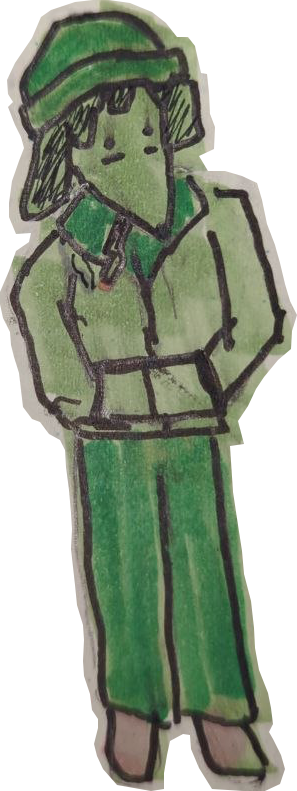
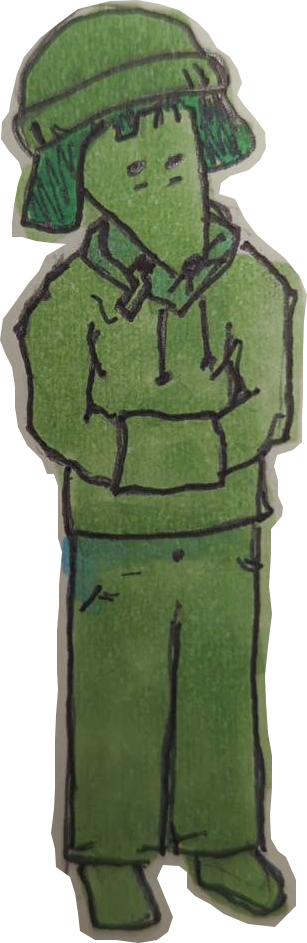
new drawing

diff --git a/style/about.css b/style/about.css
@@ -72,7 +72,7 @@ body {
   z-index: 6;
   rotate: 0.6deg;
   opacity: 0.98;
-  filter: brightness(0.97);
+  filter: brightness(0.96);
 }
 
 .groundcover {
@@ -82,7 +82,7 @@ body {
   right: auto;
   width: auto;
   height: 250px;
-  filter: brightness(0.93);
+  filter: brightness(0.92);
   opacity: 0.9;
   overflow: hidden;
 }
@@ -95,7 +95,7 @@ body {
   position: absolute;
   z-index: 9;
   opacity: 0.97;
-  filter: brightness(97%);
+  filter: brightness(96%);
 }
 
 .char_one {
@@ -107,7 +107,7 @@ body {
 .char_two {
   height: 242px;
   bottom: 44px;
-  left: 145px;
+  left: 158px;
 }
 
 .the_soul {
